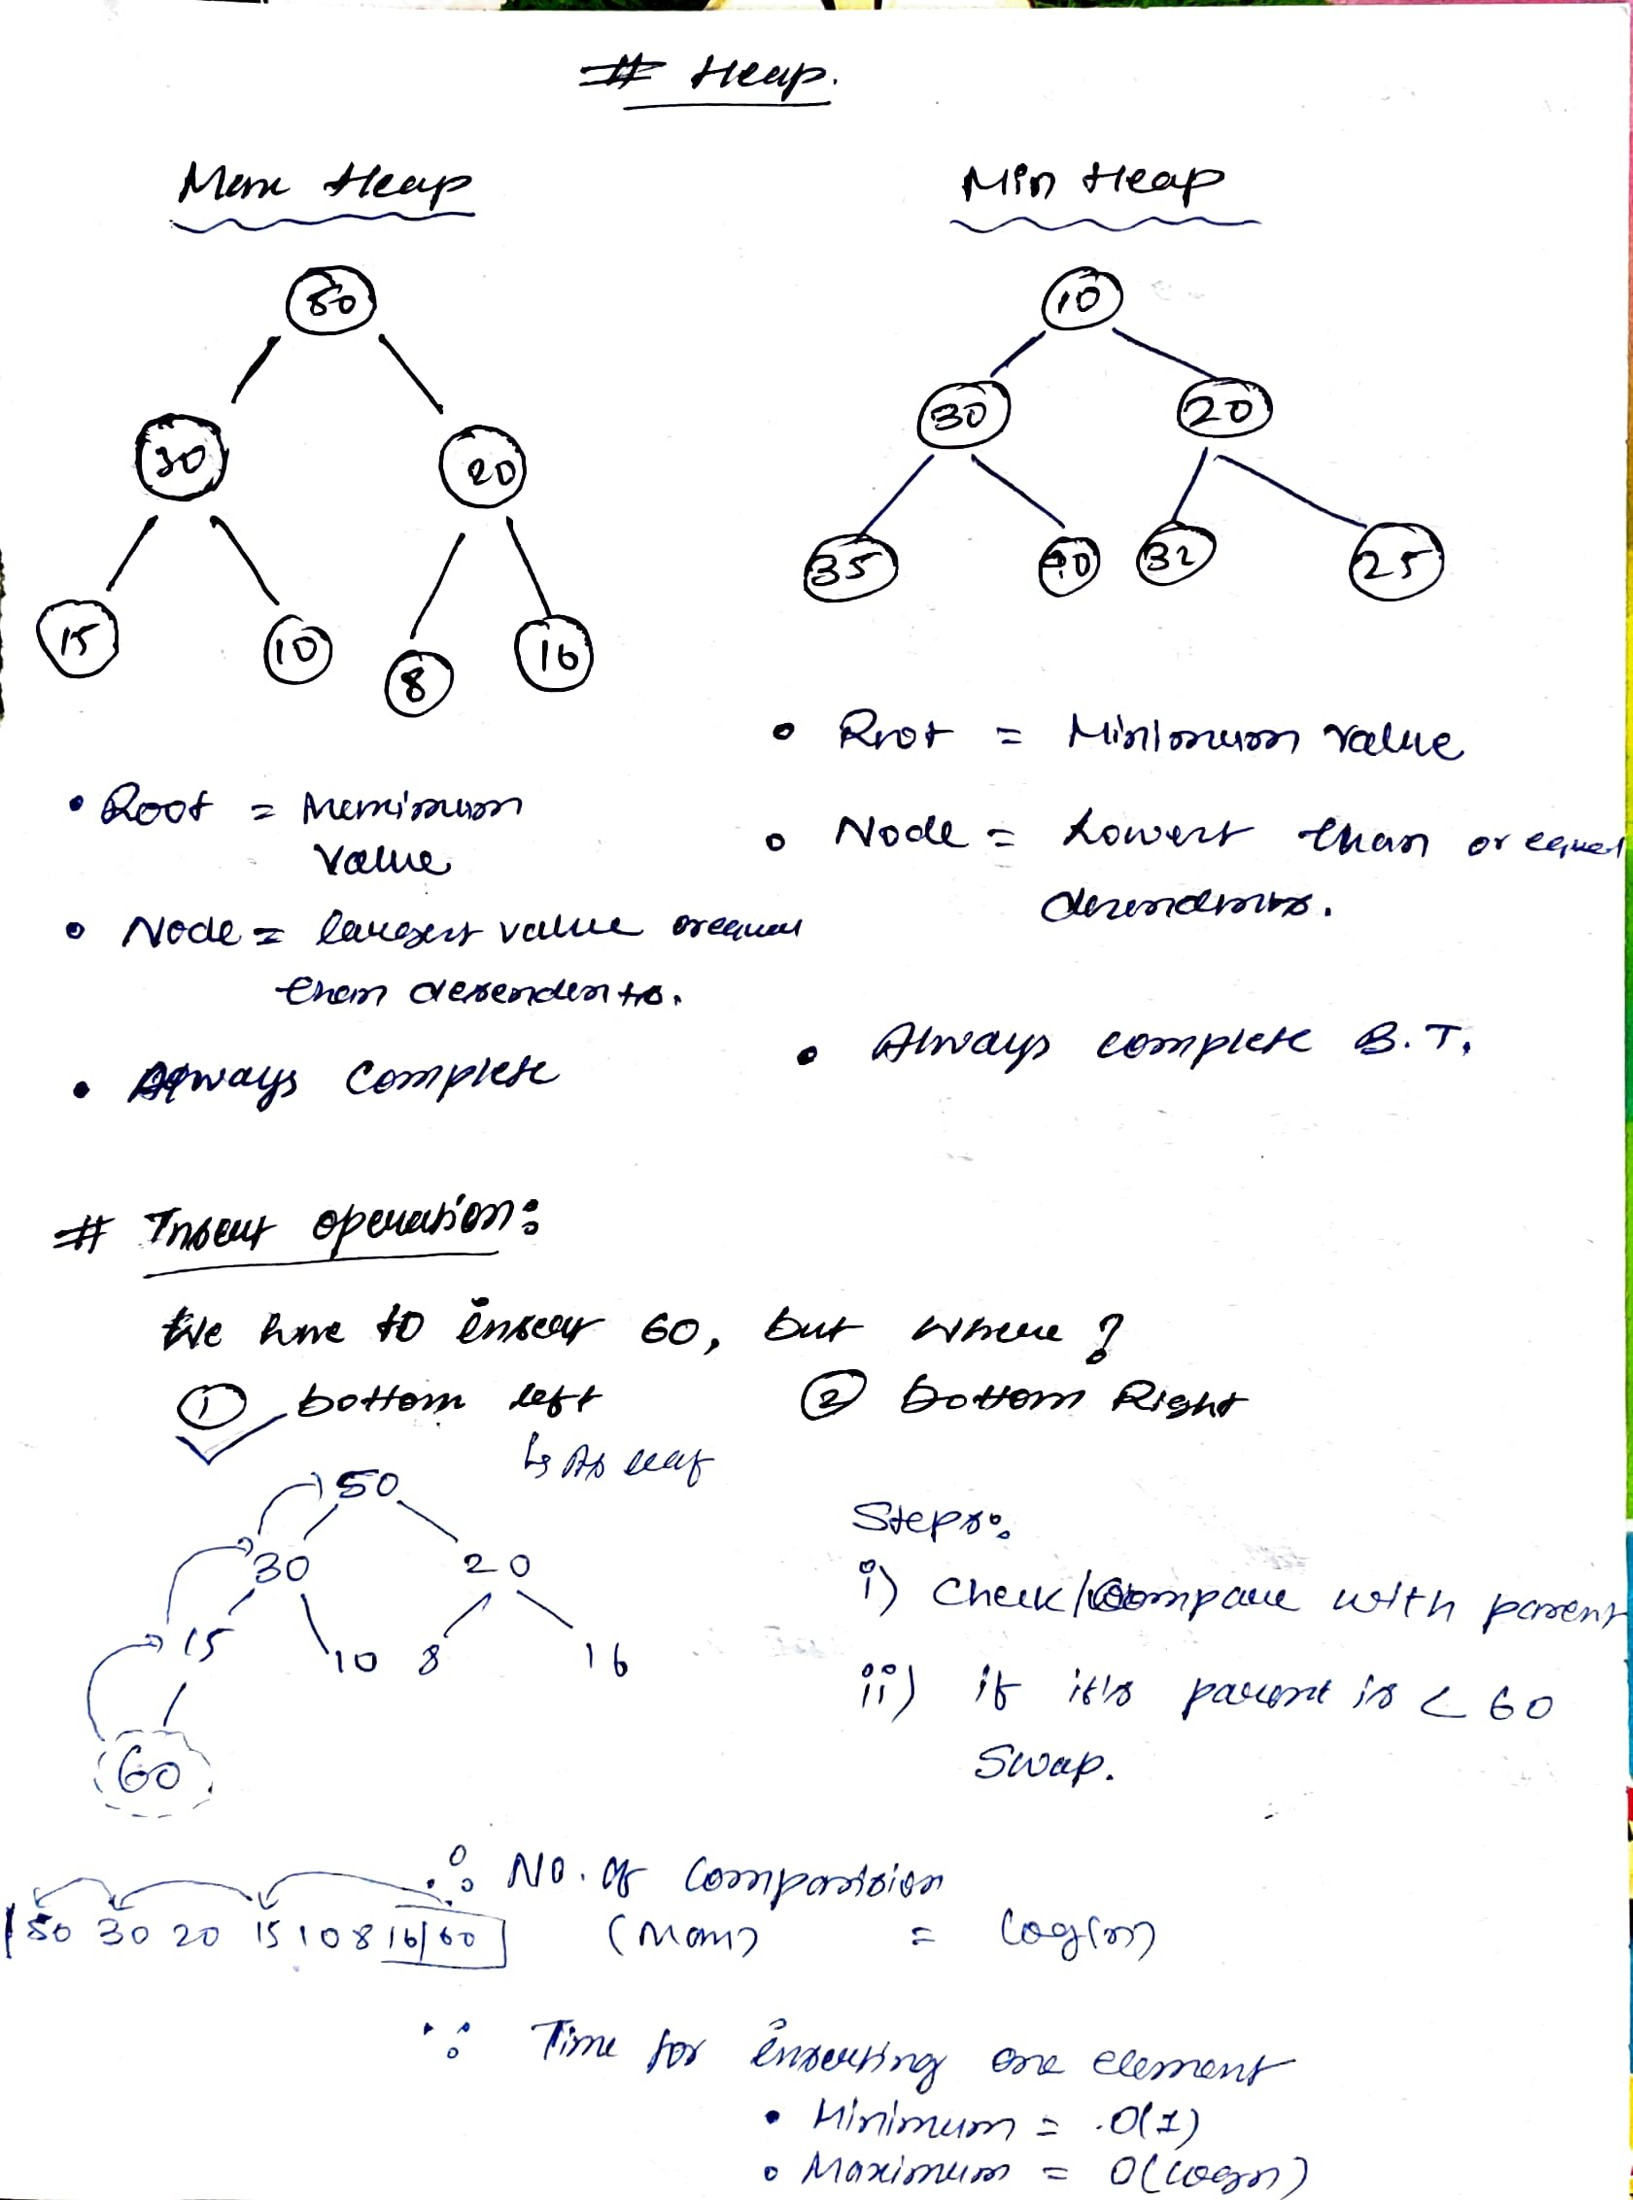
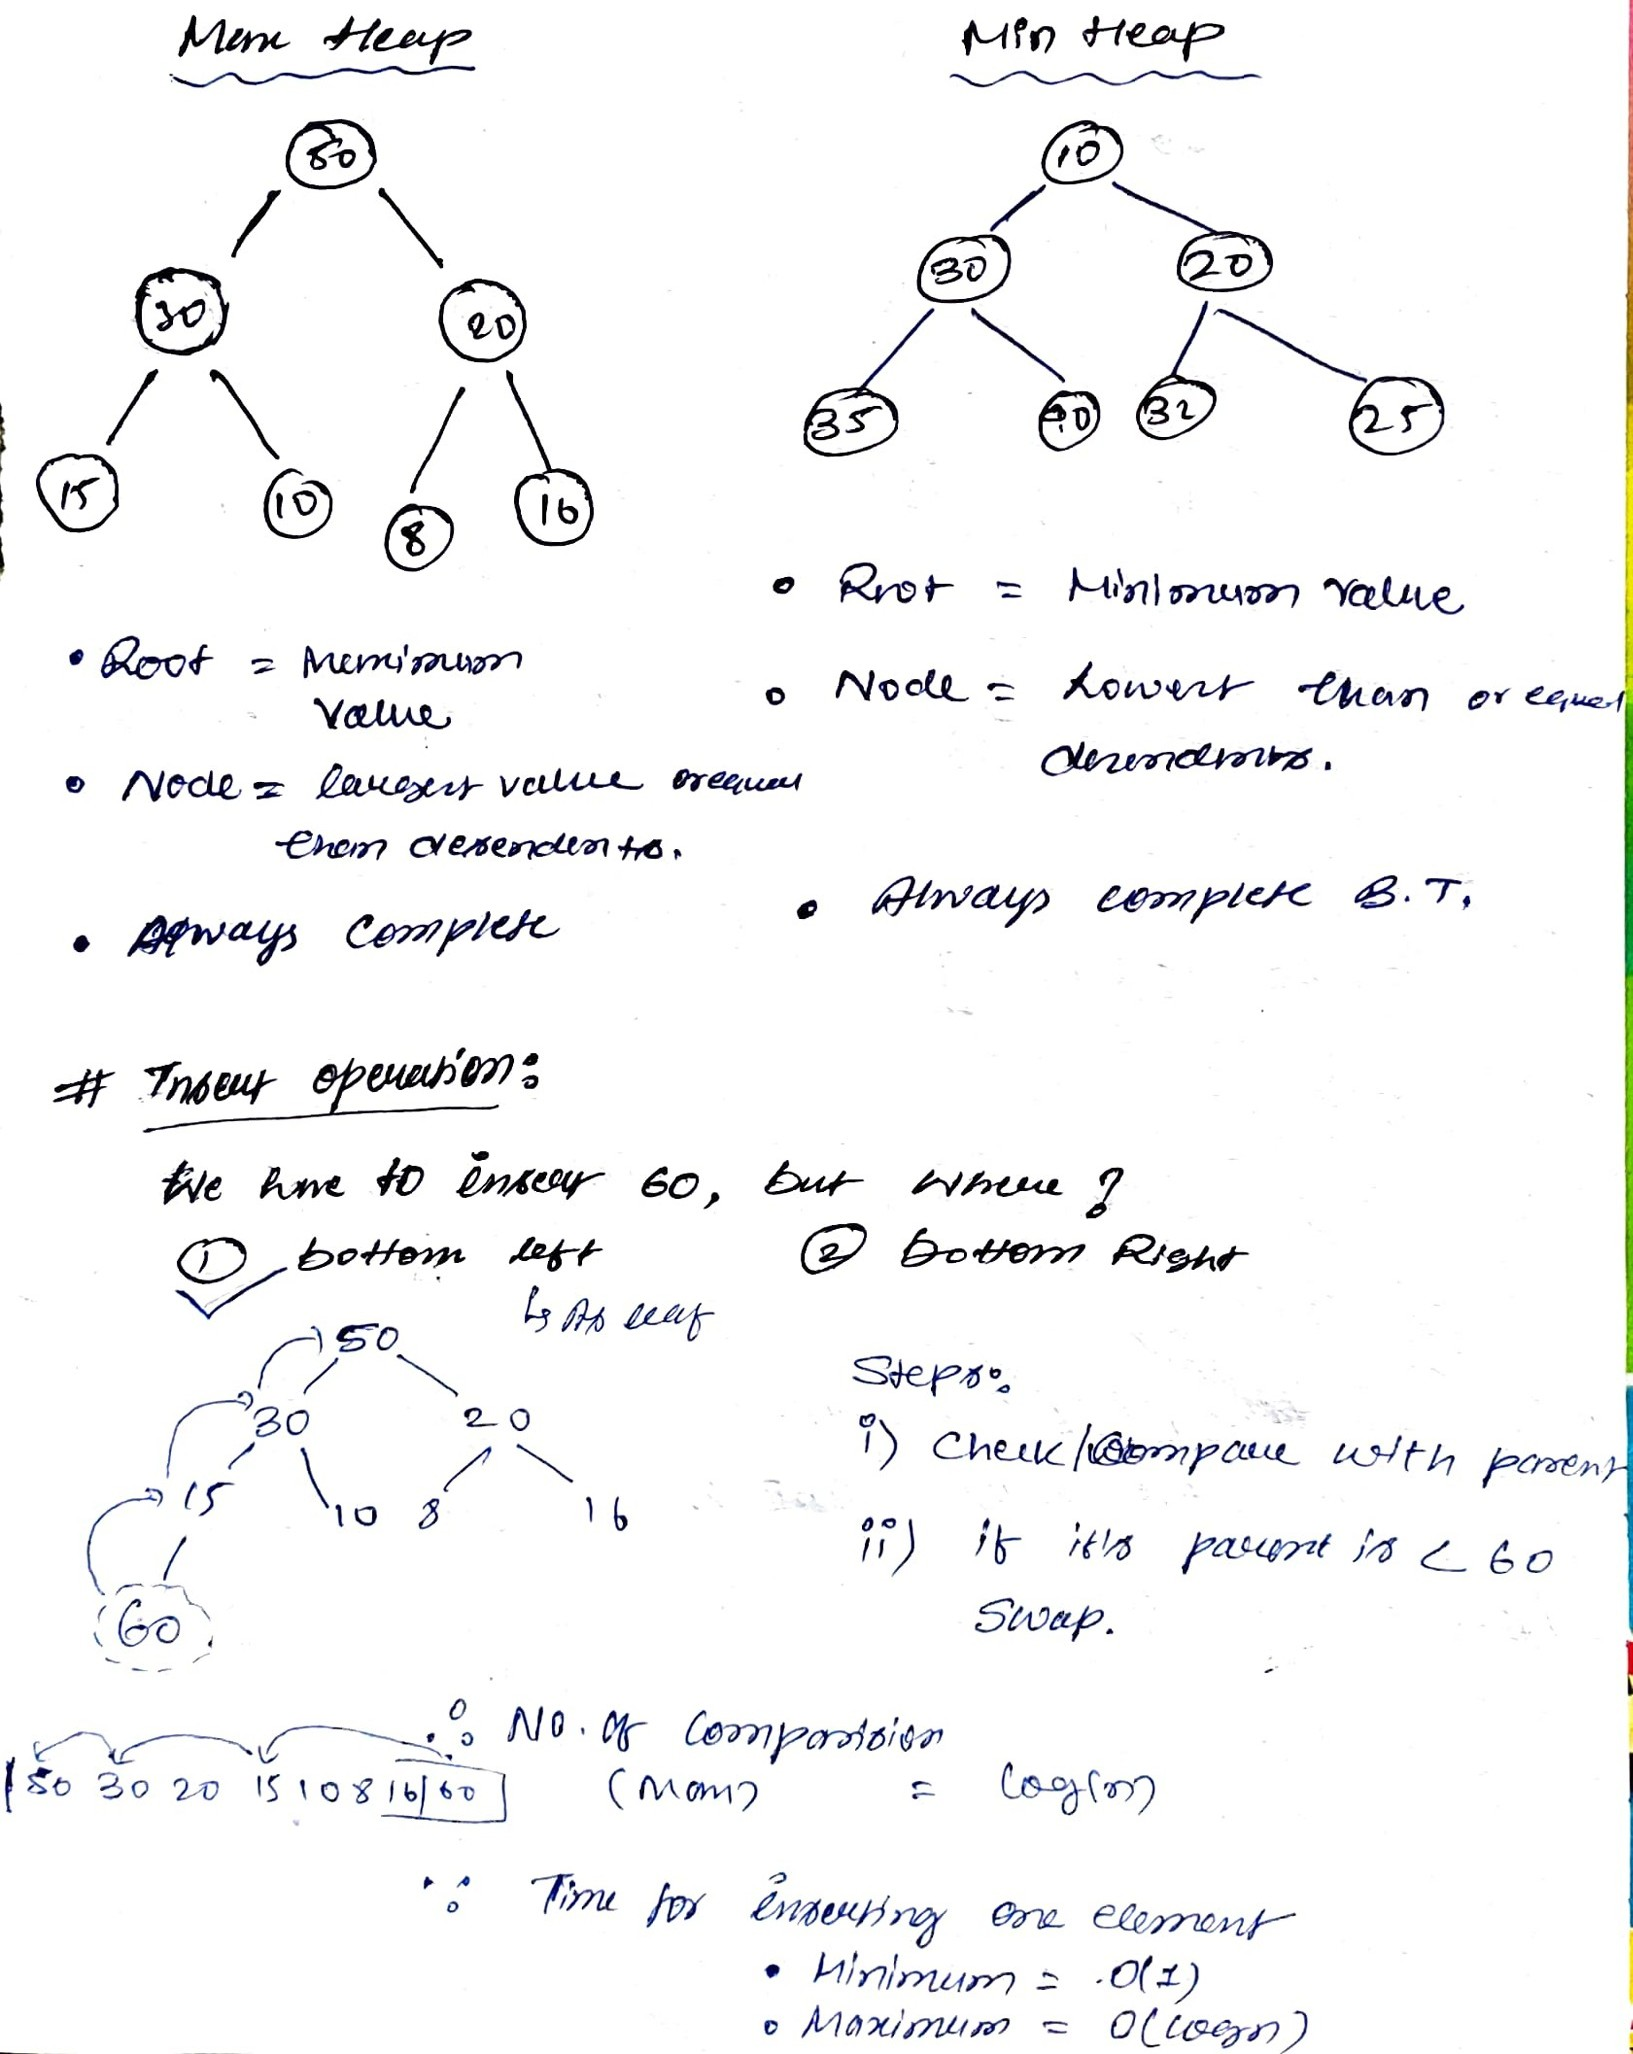
Intervals

diff --git a/0.4 Recursion/13.balancedParenthesis.ts b/0.4 Recursion/13.balancedParenthesis.ts
@@ -1,0 +1,32 @@
+/**
+ * Given n pairs of parentheses, write a function to generate all combinations of well-formed parentheses.
+ * Input: n = 3
+ * Output: ["((()))","(()())","(())()","()(())","()()()"]
+ */
+
+/**
+ * 
+ */
+class balancedParenthesis {
+  generateParenthesis(n: number): string[] {
+    let ans: string[] = [];
+    let open = n;
+    let close = n;
+    this.solve("", open, close, ans);
+    return ans;
+  }
+  solve(output: string, open: number, close: number, ans: string[]) {
+    if (open === 0 && close === 0) {
+      ans.push(output);
+      return;
+    }
+    if (open >= 0) {
+      let output1 = output + "(";
+      this.solve(output1, open - 1, close, ans);
+    }
+    if (close >= 0 && open < close) {
+      let output2 = output + ")";
+      this.solve(output2, open, close - 1, ans);
+    }
+  }
+}

diff --git a/10. Heap/M. ImplementMinHeap.md b/10. Heap/M. ImplementMinHeap.md
@@ -1,0 +1,83 @@
+```java
+import java.util.*;
+
+public class Solution {
+
+    static class MinHeap {
+        List<Integer> heap;
+
+        MinHeap(int size) {
+            heap = new ArrayList<>(size);
+        }
+
+        // Remove and return the minimum element (root of the heap)
+        int extractMinElement() {
+            if (heap.isEmpty()) return -1; // or throw exception
+            int min = heap.get(0);
+            int last = heap.size() - 1;
+            heap.set(0, heap.get(last));
+            heap.remove(last);
+            heapifyDown(0);
+            return min;
+        }
+
+        // Delete element at a specific index
+        void deleteElement(int ind) {
+            if (ind >= heap.size()) return;
+            heap.set(ind, Integer.MIN_VALUE); // smallest possible value
+            heapifyUp(ind); // bring it to top
+            extractMinElement(); // remove it
+        }
+
+        // Maintain heap property downwards
+        void heapifyDown(int index) {
+            int size = heap.size();
+            while (index < size) {
+                int left = 2 * index + 1;
+                int right = 2 * index + 2;
+                int smallest = index;
+
+                if (left < size && heap.get(left) < heap.get(smallest)) {
+                    smallest = left;
+                }
+                if (right < size && heap.get(right) < heap.get(smallest)) {
+                    smallest = right;
+                }
+                if (smallest != index) {
+                    swap(index, smallest);
+                    index = smallest;
+                } else {
+                    break;
+                }
+            }
+        }
+
+        // Maintain heap property upwards
+        void heapifyUp(int index) {
+            while (index > 0) {
+                int parent = (index - 1) / 2;
+                if (heap.get(index) < heap.get(parent)) {
+                    swap(index, parent);
+                    index = parent;
+                } else {
+                    break;
+                }
+            }
+        }
+
+        // Swap values at two indices
+        void swap(int i, int j) {
+            int temp = heap.get(i);
+            heap.set(i, heap.get(j));
+            heap.set(j, temp);
+        }
+
+        // Insert a new value
+        void insert(int val) {
+            heap.add(val);
+            heapifyUp(heap.size() - 1);
+        }
+    }
+}
+
+```

diff --git a/0.4 Recursion/E. sortArray.md b/0.4 Recursion/E. sortArray.md
@@ -1,5 +1,26 @@
 # [Sort and Array](https://leetcode.com/problems/sort-an-array/description/)
 
+Given an array of integers nums, sort the array in ascending order and return it.
+
+You must solve the problem without using any built-in functions in O(nlog(n)) time complexity and with the smallest space complexity possible.
+
+```
+Input: nums = [5,2,3,1]
+Output: [1,2,3,5]
+Explanation: After sorting the array, the positions of some numbers are not changed (for example, 2 and 3), while the positions of other numbers are changed (for example, 1 and 5).
+
+Input: nums = [5,1,1,2,0,0]
+Output: [0,0,1,1,2,5]
+Explanation: Note that the values of nums are not necessarily unique.
+```
+
+```
+Constraints:
+
+1 <= nums.length <= 5 * 104
+-5 * 104 <= nums[i] <= 5 * 104
+```
+
 ## Approach : Insertion Sort - TLE
 
 ```java
@@ -9,27 +30,24 @@
  */
 class Solution {
     public int[] sortArray(int[] nums) {
-        int index = nums.length - 1;
-        helper(nums, index);
+        sort(nums, 0);
         return nums;
     }
-
-    private void helper(int[] nums, int index) {
-        if (index == 0) {
+    public void sort(int[] nums, int index){
+        //base case:
+        if(index == nums.length){
             return;
         }
-
-        helper(nums, index - 1);
-
-        for (int i = index; i > 0; i--) {
-            if (nums[i] < nums[i - 1]) {
-                swap(nums, i, i - 1);
-            }
+        int j = index;
+        while(j>0 && nums[j] < nums[j-1]){
+                swap(nums, j,j-1);
+                j--;
         }
-    }
+        sort(nums, index+1);
 
-    private void swap(int[] nums, int i, int j) {
-        int temp = nums[i];
+    }
+    public void swap(int[] nums, int i, int j){
+        var temp  = nums[i];
         nums[i] = nums[j];
         nums[j] = temp;
     }

diff --git a/13. Intervals/1. MergeInterval.md b/13. Intervals/1. MergeInterval.md
@@ -1,0 +1,46 @@
+# [Merge Intervals](https://leetcode.com/problems/merge-intervals/)
+
+Given an array of intervals where intervals[i] = [starti, endi], merge all overlapping intervals, and return an array of the non-overlapping intervals that cover all the intervals in the input.
+
+```
+Example 1:
+
+Input: intervals = [[1,3],[2,6],[8,10],[15,18]]
+Output: [[1,6],[8,10],[15,18]]
+Explanation: Since intervals [1,3] and [2,6] overlap, merge them into [1,6].
+Example 2:
+
+Input: intervals = [[1,4],[4,5]]
+Output: [[1,5]]
+Explanation: Intervals [1,4] and [4,5] are considered overlapping.
+```
+
+```
+Constraints:
+
+1 <= intervals.length <= 104
+intervals[i].length == 2
+0 <= starti <= endi <= 104
+```
+
+```java
+class Solution {
+    public int[][] merge(int[][] intervals) {
+        LinkedList <int []> ans = new LinkedList<>();
+        Arrays.sort(intervals, (a,b)-> Integer.compare(a[0], b[0]));
+        for(int[] i : intervals){
+            if(ans.isEmpty() || i[0] > ans.getLast()[1]){
+                ans.add(i);
+            }
+            else if(ans.getLast()[1] >= i[0]){
+                int l = Math.min(ans.getLast()[0], i[0]);
+                int r = Math.max(ans.getLast()[1], i[1]);
+                int [] temp = {l,r};
+                ans.removeLast();
+                ans.add(temp);
+            }
+        }
+        return ans.toArray(new int[ans.size()][]);
+    }
+}
+```

diff --git a/10. Heap/Heap.md b/10. Heap/Heap.md
@@ -1,15 +1,25 @@
 # Heap
 
-![image1](images/heap_1.jpg)
-![image1](images/heap_2.jpg)
-![image1](images/heap_3.jpg)
-![image1](images/heap_4.jpg)
-![image1](images/heap_5.jpg)
-![image1](images/heap_6.jpg)
-![image1](images/heap_7.jpg)
-![image1](images/heap_8.jpg)
-![image1](images/heap_9.jpg)
-![image1](images/heap_10.jpg)
-![image1](images/heap_11.jpg)
-![image1](images/heap_12.jpg)
-![image1](images/heap_13.jpg)
+## Identification:
+
+If both keywords come together : K + Largers/Smallest.
+
+- K + Smallest : Make Max Heap
+- K + Largest : Make Min Heap
+
+Why not simply using sort?
+
+- sorting whole array takes O(nlogn);
+- whereas heap reduce to O(nlogK);
+
+![](images/heap_3.jpg)
+![](images/heap_4.jpg)
+![](images/heap_5.jpg)
+![](images/heap_6.jpg)
+![](images/heap_7.jpg)
+![](images/heap_8.jpg)
+![](images/heap_9.jpg)
+![](images/heap_10.jpg)
+![](images/heap_11.jpg)
+![](images/heap_12.jpg)
+![](images/heap_13.jpg)

diff --git a/10. Heap/E. KthLargestInArray.md b/10. Heap/E. KthLargestInArray.md
@@ -17,9 +17,17 @@ Input: nums = [3,2,3,1,2,4,5,5,6], k = 4
 Output: 4
 ```
 
+## Approach : Heap
+
+Why not simply using sort?
+
+- sorting whole array takes O(nlogn);
+- whereas heap reduce to O(nlogK);
+
 ```java
-/** 
- * 
+/**
+ * Time : nlogK
+ * Space : K
 */
 class Solution {
     public int findKthLargest(int[] nums, int k) {

diff --git a/0.4 Recursion/M. SortStack.md b/0.4 Recursion/M. SortStack.md
@@ -1,4 +1,6 @@
-# Algorithm
+# [Sort a stack](https://www.geeksforgeeks.org/problems/sort-a-stack/1)
+
+## Algorithm
 
 1. Firstly, We will pop out the top element of the stack and pass the remaining stack to the same function i.e (recursive call).
 2. Continue the above process until the stack becomes empty.
